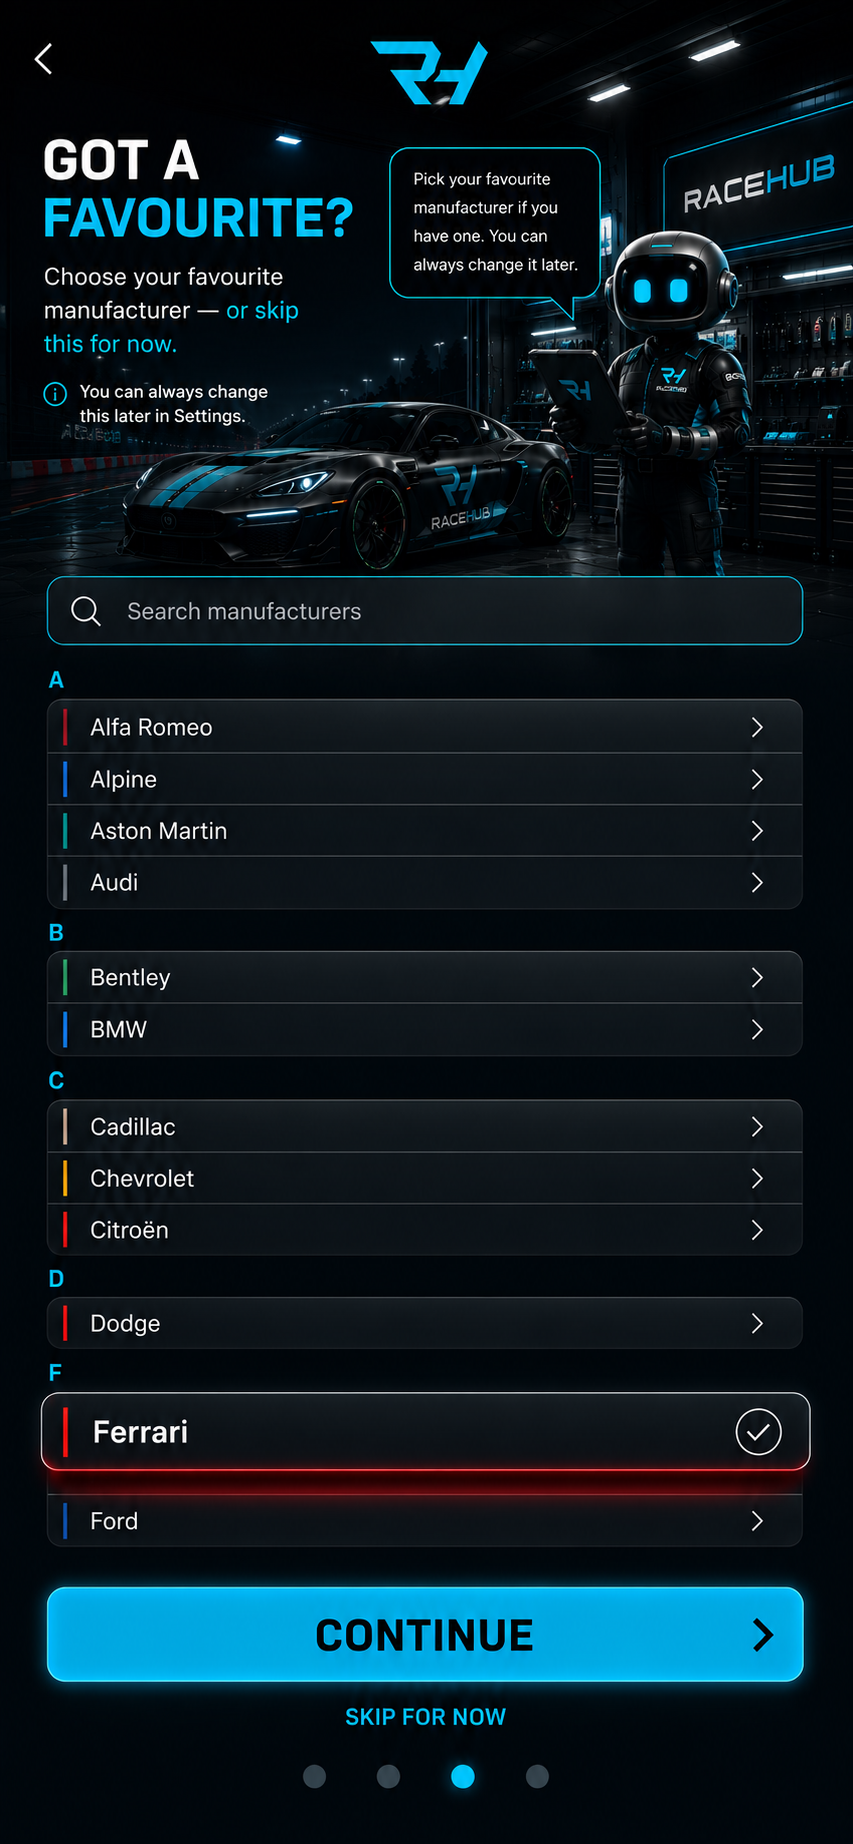
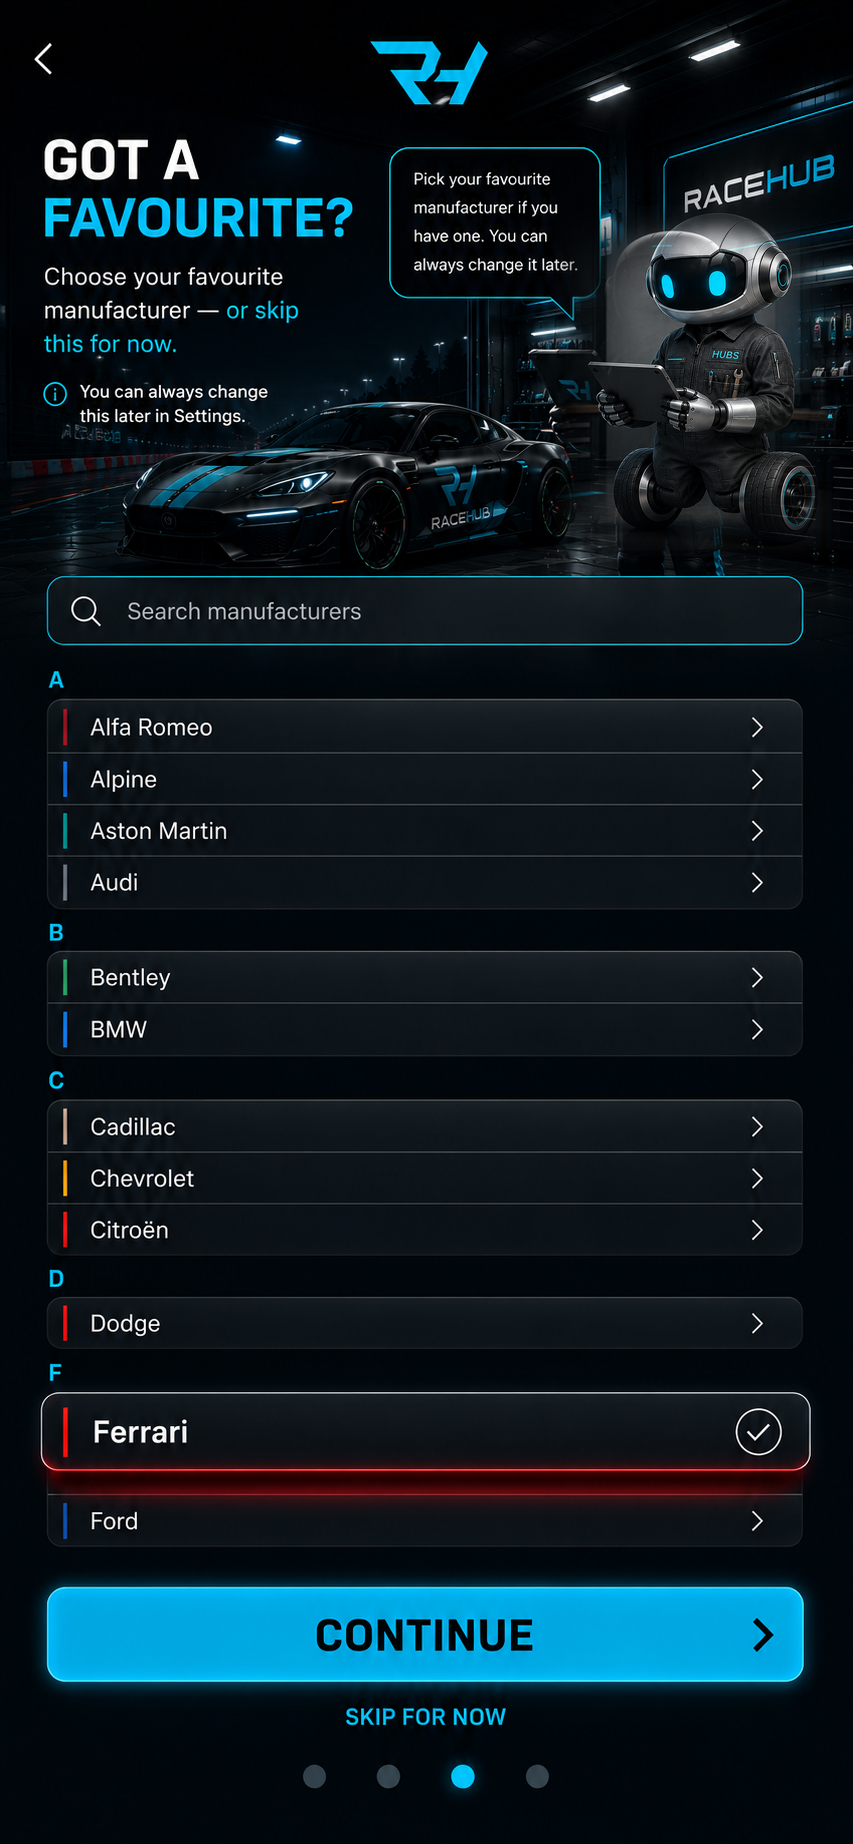
v5.4.23 - Page 4 Correct Production Hubs Artwork

Changed region(s): [[0.6706, 0.0927, 0.9754, 0.3091]]

diff --git a/index.html b/index.html
@@ -7,7 +7,7 @@
 <link rel="manifest" href="manifest.webmanifest">
 <link rel="apple-touch-icon" href="icons/icon-192.png">
 <title>RaceHub</title>
-<link rel="stylesheet" href="style.css?v=5.4.22">
+<link rel="stylesheet" href="style.css?v=5.4.23">
 </head>
 <body>
 <div id="guideWelcome" class="rhGuidePage hidden" aria-hidden="true">
@@ -99,7 +99,7 @@
 <script src="js/celebrations.js?v=5.3.6"></script>
 <script src="js/garage.js?v=5.3.9"></script>
 <script src="js/control-centre.js?v=5.3.6"></script>
-<script src="js/guide.js?v=5.4.22"></script>
+<script src="js/guide.js?v=5.4.23"></script>
 <script src="js/bootstrap.js?v=5.4.18"></script>
 </body>
 </html>

diff --git a/service-worker.js b/service-worker.js
@@ -1,4 +1,4 @@
-const CACHE_NAME='racehub-v5-4-22-guide-page-4-favourite-manufacturer';
+const CACHE_NAME='racehub-v5-4-23-page4-correct-hubs';
 const ASSETS=["./","./index.html","./style.css","./manifest.webmanifest","./favicon.png","./assets/brand/racehub-shield.svg","./assets/brand/racehub-wordmark.svg","./assets/guide/rh-ui-001-first-time-welcome.png","./assets/guide/rh-ui-002-hubs-introduction.png","./icons/icon-maskable-192.png","./icons/icon-maskable-512.png","./js/seed-data.js","./js/core.js","./js/race-director.js","./js/views.js","./js/celebrations.js","./js/garage.js","./js/control-centre.js","./js/bootstrap.js","./icons/icon-192.png","./icons/icon-512.png","./assets/logos/amc.svg","./assets/logos/amg-transport-dynamics.svg","./assets/logos/abarth.svg","./assets/logos/acura.svg","./assets/logos/alfa-romeo.svg","./assets/logos/alpine.svg","./assets/logos/alumicraft.svg","./assets/logos/apollo.svg","./assets/logos/ariel.svg","./assets/logos/aston-martin.svg","./assets/logos/audi.svg","./assets/logos/austin-healey.svg","./assets/logos/auto-union.svg","./assets/logos/automobili.svg","./assets/logos/autozam.svg","./assets/logos/bac.svg","./assets/logos/bmw.svg","./assets/logos/bentley.svg","./assets/logos/bugatti.svg","./assets/logos/buick.svg","./assets/logos/cadillac.svg","./assets/logos/can-am.svg","./assets/logos/casey-currie.svg","./assets/logos/caterham.svg","./assets/logos/chevrolet.svg","./assets/logos/cupra.svg","./assets/logos/czinger.svg","./assets/logos/datsun.svg","./assets/logos/deberti.svg","./assets/logos/dodge.svg","./assets/logos/elemental.svg","./assets/logos/exomotive.svg","./assets/logos/extreme-e.svg","./assets/logos/fast.svg","./assets/logos/ferrari.svg","./assets/logos/fiat.svg","./assets/logos/ford.svg","./assets/logos/formula-drift.svg","./assets/logos/forsberg.svg","./assets/logos/funco-motorsports.svg","./assets/logos/gmc.svg","./assets/logos/ginetta.svg","./assets/logos/gremlin.svg","./assets/logos/hsv.svg","./assets/logos/hennessy.svg","./assets/logos/holden.svg","./assets/logos/honda.svg","./assets/logos/hoonigan.svg","./assets/logos/hot-wheels.svg","./assets/logos/hummer.svg","./assets/logos/hyundai.svg","./assets/logos/infiniti.svg","./assets/logos/international-scout.svg","./assets/logos/italdesign.svg","./assets/logos/jaguar.svg","./assets/logos/jeep.svg","./assets/logos/jimco.svg","./assets/logos/ktm.svg","./assets/logos/koenigsegg.svg","./assets/logos/lamborghini.svg","./assets/logos/lancia.svg","./assets/logos/land-rover.svg","./assets/logos/lexus.svg","./assets/logos/local-motors.svg","./assets/logos/lola.svg","./assets/logos/lotus.svg","./assets/logos/lynk-co.svg","./assets/logos/mg.svg","./assets/logos/maserati.svg","./assets/logos/mazda.svg","./assets/logos/mclaren.svg","./assets/logos/mercedes-amg.svg","./assets/logos/mercedes-benz.svg","./assets/logos/mercury.svg","./assets/logos/meyers.svg","./assets/logos/meyers-manx.svg","./assets/logos/mini.svg","./assets/logos/mitsubishi.svg","./assets/logos/morgan.svg","./assets/logos/morris.svg","./assets/logos/mosler.svg","./assets/logos/napier.svg","./assets/logos/nissan.svg","./assets/logos/noble.svg","./assets/logos/oldsmobile.svg","./assets/logos/opel.svg","./assets/logos/pagani.svg","./assets/logos/peel.svg","./assets/logos/penhall.svg","./assets/logos/peugeot.svg","./assets/logos/plymouth.svg","./assets/logos/polaris.svg","./assets/logos/pontiac.svg","./assets/logos/porsche.svg","./assets/logos/ram.svg","./assets/logos/rj-anderson.svg","./assets/logos/radical.svg","./assets/logos/reliant.svg","./assets/logos/renault.svg","./assets/logos/rimac.svg","./assets/logos/saleen.svg","./assets/logos/shelby.svg","./assets/logos/sierra-cars.svg","./assets/logos/subaru.svg","./assets/logos/tvr.svg","./assets/logos/toyota.svg","./assets/logos/ultima.svg","./assets/logos/universal.svg","./assets/logos/vw.svg","./assets/logos/vauxhall.svg","./assets/logos/volkswagen.svg","./assets/logos/volvo.svg","./assets/logos/vuhl.svg","./assets/logos/willys.svg","./assets/logos/wuling.svg","./assets/logos/xpeng.svg","./assets/logos/zenvo.svg",
   "./js/guide.js",
   "./assets/guide/rh-ui-003-driver-profile.png",